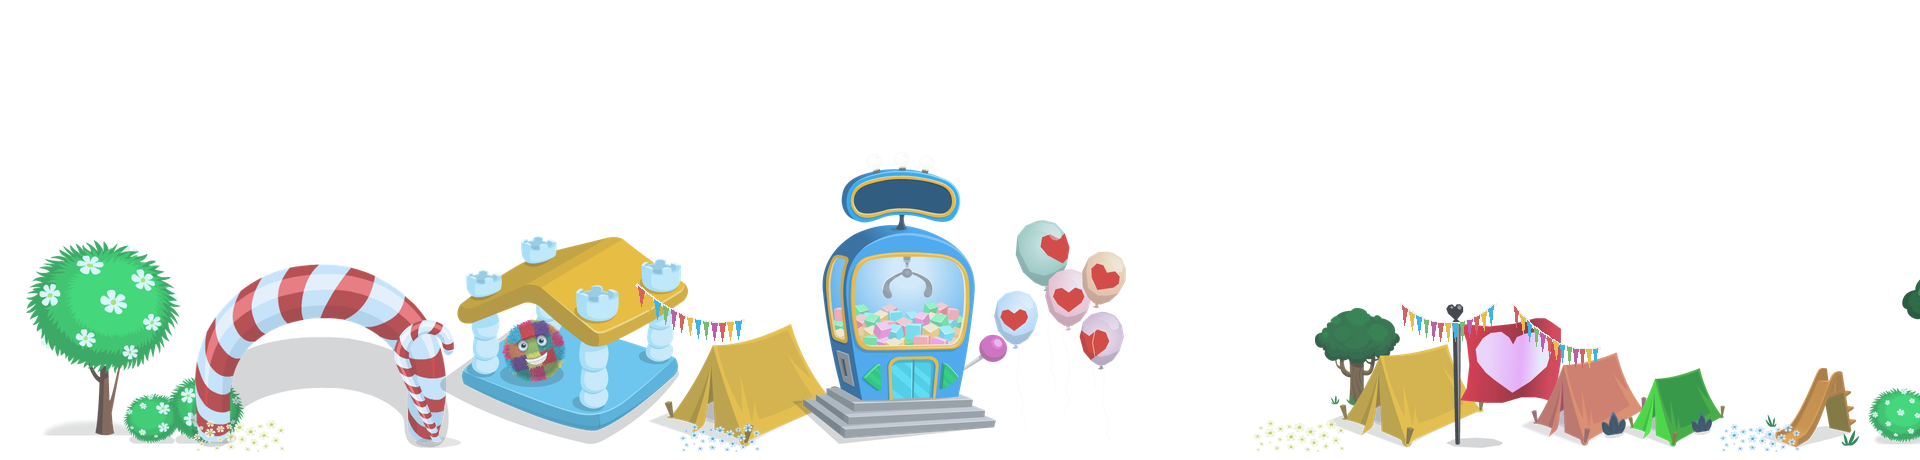
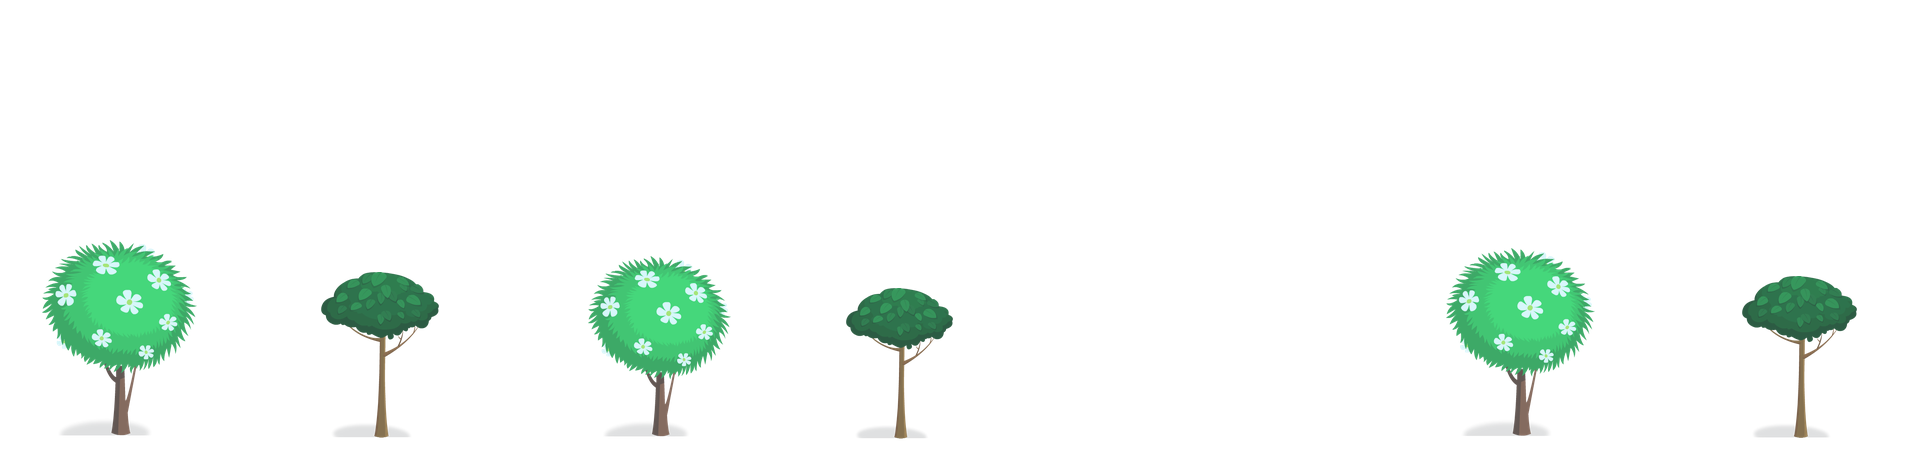
Coaster backdrop: only clouds, trees and the ferris wheel stay
Gao: "wayyy too many decorations in the back. keep the trees and the ferris wheel and clouds,
get rid of everything else". mid.png is now a row of six Fuzztopia trees (no castle, arcade,
tents, candy arch, balloons, flag, slide, flowers or bunting); the blimp and the hot-air balloon
are gone from the scene and from public/bg/coaster/. Sky, drifting clouds, hazy hills, the
turning wheel and the grass stay.

Changed region(s): [[0.0, 0.3652, 0.5938, 0.9739], [0.6562, 0.5478, 1.0, 0.9739]]

diff --git a/src/game/CoasterScene.ts b/src/game/CoasterScene.ts
@@ -37,7 +37,6 @@ const UNDO_CAP = 50;
 const DEPTH_SKY = 0;
 // 2026-10-12: the theme-park backdrop between the sky and the ground strip (createBackdrop)
 const DEPTH_CLOUDS = 0.1;
-const DEPTH_FLYERS = 0.15;
 const DEPTH_FAR = 0.2;
 const DEPTH_WHEEL = 0.3;
 const DEPTH_MID = 0.4;
@@ -67,12 +66,13 @@ const PANEL_RADIUS = 12;
 /* 2026-10-12 (Gao: "make the background more engaging"): a theme park instead of the plain blue
    gradient. Layers composed from the Kodable Marketing Library into public/bg/coaster/ at 2x stage
    px (README "Fuzz Rollercoaster"), back to front: the sky (HighFlyer sky clouds over a deep-to-pale
-   gradient), drifting clouds, a hot-air balloon and a blimp, two hazy hill ranges with a tree line,
-   a turning ferris wheel (drawn here: the library has none), the fairground (bouncy castle, tents,
-   candy arch, arcade, balloons, bunting; softened a little toward the horizon colour so the track
-   stays the boldest thing on screen) and a grass strip at the ground line. While the ride camera
+   gradient), drifting clouds, two hazy hill ranges with a tree line, a turning ferris wheel (drawn
+   here: the library has none), a row of trees (softened a little toward the horizon colour so the
+   track stays the boldest thing on screen) and a grass strip at the ground line. Later the same day
+   (Gao: "wayyy too many decorations in the back. keep the trees and the ferris wheel and clouds, get
+   rid of everything else") the blimp, the hot-air balloon and the fairground props went. While the ride camera
    moves, each layer lags it by its depth factor (parallaxOffset); the ground-standing layers only
-   across, so nothing sinks into the grass. Static pictures, no tweens: the clouds, flyers and wheel
+   across, so nothing sinks into the grass. Static pictures, no tweens: the clouds and the wheel
    are moved by hand once a frame (a handful of setPosition calls). */
 const BG_DIR = 'bg/coaster/';
 /** Parallax depth factors, across (x) and up/down (y): 1 moves with the track, 0 stays put. */
@@ -85,7 +85,7 @@ const PX_MID = { x: 0.75, y: 1 };
 const FAR_H = 300;
 const MID_H = 230;
 const GROUND_STRIP_H = 30;
-/** The ferris wheel, in the fairground's gap between the balloons and the striped tent. */
+/** The ferris wheel, between the trees. */
 const WHEEL_X = 604;
 const WHEEL_Y = 586;
 const WHEEL_R = 84;
@@ -147,7 +147,7 @@ interface BackdropPiece {
   px: { x: number; y: number };
 }
 
-/** A sky drifter (cloud, blimp): its full-view x advances at `speed` px/s and wraps. */
+/** A sky drifter (a cloud): its full-view x advances at `speed` px/s and wraps. */
 interface Drifter {
   img: Phaser.GameObjects.Image;
   x: number;
@@ -215,7 +215,6 @@ export class CoasterScene extends Phaser.Scene {
 
   private backdrop: BackdropPiece[] = [];
   private drifters: Drifter[] = [];
-  private balloon!: Phaser.GameObjects.Image;
   private wheel!: Phaser.GameObjects.Graphics;
   private wheelCars: Phaser.GameObjects.Graphics[] = [];
   private wheelAngle = 0;
@@ -237,7 +236,7 @@ export class CoasterScene extends Phaser.Scene {
       this.load.image(`skin-${s.id}-excited`, s.excited);
     }
     this.load.image('cb-sky', `${BG_DIR}sky.jpg`);
-    for (const k of ['far', 'mid', 'ground', 'hot-air-balloon', 'blimp', 'cloud1', 'cloud2', 'cloud3']) {
+    for (const k of ['far', 'mid', 'ground', 'cloud1', 'cloud2', 'cloud3']) {
       this.load.image(`cb-${k}`, `${BG_DIR}${k}.png`);
     }
   }
@@ -367,7 +366,7 @@ export class CoasterScene extends Phaser.Scene {
     ground.setDisplaySize(w, GROUND_STRIP_H);
     ground.setDepth(DEPTH_GROUND);
 
-    // Sky drifters: three clouds and the blimp creep left to right and wrap (the textures are 2x).
+    // Sky drifters: three clouds creep left to right and wrap (the textures are 2x).
     const drifter = (key: string, x: number, y: number, speed: number, bob: number, depth: number): void => {
       const img = this.onWorld(this.add.image(x, y, key));
       img.setScale(0.5);
@@ -377,11 +376,6 @@ export class CoasterScene extends Phaser.Scene {
     drifter('cb-cloud1', 300, 300, 5, 0, DEPTH_CLOUDS);
     drifter('cb-cloud2', 720, 175, 3.5, 0, DEPTH_CLOUDS);
     drifter('cb-cloud3', 860, 420, 6, 0, DEPTH_CLOUDS);
-    drifter('cb-blimp', 420, 250, 9, 4, DEPTH_FLYERS);
-    // The hot-air balloon (a fuzz in its basket) bobs in place over the right of the park.
-    this.balloon = this.onWorld(this.add.image(850, 330, 'cb-hot-air-balloon'));
-    this.balloon.setScale(0.5);
-    this.balloon.setDepth(DEPTH_FLYERS);
 
     this.createFerrisWheel();
   }
@@ -559,7 +553,7 @@ export class CoasterScene extends Phaser.Scene {
     this.applyCamera();
   }
 
-  /** Parallax, drifting clouds and blimp, the bobbing balloon, the turning wheel. */
+  /** Parallax, drifting clouds, the turning wheel. */
   private updateBackdrop(dtMs: number): void {
     const dt = Math.min(dtMs, 100) / 1000;
     const f = this.camCur;
@@ -577,7 +571,6 @@ export class CoasterScene extends Phaser.Scene {
       const bob = d.bob ? Math.sin(t * 0.9 + d.phase) * d.bob : 0;
       d.img.setPosition(d.x + fly.x, d.y + bob + fly.y);
     }
-    this.balloon.setPosition(850 + Math.sin(t * 0.27) * 10 + fly.x, 330 + Math.sin(t * 1.05) * 7 + fly.y);
     this.wheelAngle = (this.wheelAngle + WHEEL_SPEED * dt) % (Math.PI * 2);
     this.wheel.setRotation(this.wheelAngle);
     this.placeWheelCars(parallaxOffset(f, PX_WHEEL.x, PX_WHEEL.y));

diff --git a/README.md b/README.md
@@ -14,7 +14,7 @@ Tap empty space on the track to insert a point. Tap the sky to append at the end
 
 Two tools in the bottom bar: **Point** and **Loop**. A loop is a fixed piece (a point of kind `loop` expanded into a 4 m radius circle by `expandTrackPoints` before the spline is built). Locked points (placed by a level) show a padlock and cannot move or delete; Clear keeps them.
 
-**Theme-park backdrop, fuzz skins, ride camera (2026-10-12).** The scene is Bruno's theme park instead of a plain blue gradient: layers composed with Pillow from the Kodable Marketing Library (`GSA` = `Game Specific Assets`) into `public/bg/coaster/` at 2x stage px, back to front: `sky.jpg` (the cloud puffs of `GSA/Creator/Course Art/Coding Course Art/HighFlyer_Sky/sky1_bg.png` over a deep-to-pale gradient), drifting `cloud1-3.png` (`GSA/Basics/Misc art/ws2020_cloud01-03.png`, lightened), `blimp.png` (`.../HighFlyer_Sky/Obstacle_Blimp.png`) and a bobbing `hot-air-balloon.png` (`GSA/Basics/Basics : Fuzz Specific/balloon-fuzz1.png`), `far.png` (two hazy hill ranges drawn as smooth silhouettes, with a tree line from `GSA/Basics/Area Specific/Fuzztopia/fuzztopia/decoration_tree01/02.png` and `decoration_bush02.png`), a turning ferris wheel drawn in the scene (the library has none), `mid.png` (the fairground: the bouncy castle with Checkers `GSA/Typing/Course Islands/Island Assets by Grade Level/3rd Grade Island Marketing Assets/typing_course_3_3_moment_jumpy_castle_tent_with_checkers.png` and `typing_course_3_3_tent.png`, the candy arch and cane `GSA/Basics/Events/winter/winter_candyarch.png` / `winter_candycane.png`, the arcade `GSA/Creator/World Assets/Buildings Final V1/building_arcade.png`, heart balloons `.../HighFlyer_Sky/Obstacle_Balloons.png`, the heart flag `GSA/Creator/Course Art/Coding Course Art/Valentines/valentine_flag2.png`, tents `.../Fuzztopia/fuzztopia/decoration_tent.png` and `GSA/Basics/Area Specific/Courses Planets and Mazes/Moongarden/moon garden/moongarden_tent01/03.png`, the slide, trees, bushes and flower patches from the Fuzztopia folder, plus drawn bunting; softened 22% toward the horizon colour so the track stays the boldest thing on screen, and only low props right of x 820 where the finish flags stand) and `ground.png` (a grass strip from `GSA/Basics/Environments/Maze Backgrounds/background_grass_HighDef.png`). The compose script is not in the repo; the layers are plain PNG/JPG and can be redrawn by hand. The clouds, flyers and wheel move once a frame by hand (no tweens).
+**Theme-park backdrop, fuzz skins, ride camera (2026-10-12).** The scene is Bruno's theme park instead of a plain blue gradient: layers composed with Pillow from the Kodable Marketing Library (`GSA` = `Game Specific Assets`) into `public/bg/coaster/` at 2x stage px, back to front: `sky.jpg` (the cloud puffs of `GSA/Creator/Course Art/Coding Course Art/HighFlyer_Sky/sky1_bg.png` over a deep-to-pale gradient), drifting `cloud1-3.png` (`GSA/Basics/Misc art/ws2020_cloud01-03.png`, lightened), `far.png` (two hazy hill ranges drawn as smooth silhouettes, with a tree line from `GSA/Basics/Area Specific/Fuzztopia/fuzztopia/decoration_tree01/02.png` and `decoration_bush02.png`), a turning ferris wheel drawn in the scene (the library has none), `mid.png` (a row of Fuzztopia trees, `GSA/Basics/Area Specific/Fuzztopia/fuzztopia/decoration_tree01/02.png`, softened 22% toward the horizon colour so the track stays the boldest thing on screen; the blimp, hot-air balloon and fairground props were removed the same day at Gao's request: too busy) and `ground.png` (a grass strip from `GSA/Basics/Environments/Maze Backgrounds/background_grass_HighDef.png`). The compose script is not in the repo; the layers are plain PNG/JPG and can be redrawn by hand. The clouds and the wheel move once a frame by hand (no tweens).
 
 The child picks the fuzz that rides: a round button with the fuzz's face sits right of Point/Loop in edit mode; a tap opens a "Who rides?" tray of 8 faces above it (Blue, Princess, Cole, Prism, Spike, Gracie, Violet, Checkers: `src/game/skins.ts`); a tap swaps the fuzz and both the button and the fuzz waiting in the station pop. The pick holds for the session and in localStorage (`themePark.coaster.fuzzSkin`; every access is guarded, so the default Blue shows without storage). The pictures are the Fuzz Family PNGs (`GSA/Basics/Characters/Fuzz Family/<Name>/`, normal and excited poses) normalised into `public/skins/coaster/<id>.png` and `<id>-excited.png` (body centred on a 288 px canvas, body = canvas / 1.6, ground shadow cut out). The fuzz waits in the station with its normal face and rides with its excited face while faster than 7 m/s or airborne (back to normal under 4.5 m/s). Skins are cosmetic: the sim rides a point on the rail, so every level solution is untouched. The drawn fuzz is a little bigger (14 px rolling radius, was 11).
 
